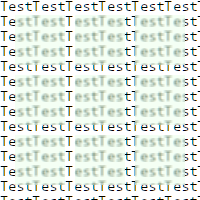
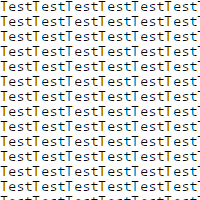
In progress. Issues remain with blurred quads for some reason

diff --git a/src/test.rs b/src/test.rs
@@ -96,7 +96,7 @@ fn simple_quad() {
         70,
         70,
         Scene::new()
-            .with_background(Srgba::new(1., 0., 0.5, 1.))
+            .with_clear(Srgba::new(1., 0., 0.5, 1.))
             .with_quad(Quad::new(
                 point2!(10., 10.),
                 size2!(50., 50.),
@@ -107,7 +107,7 @@ fn simple_quad() {
 
 #[test]
 fn simple_text() {
-    let mut scene = Scene::new().with_background(Srgba::new(1., 1., 1., 1.));
+    let mut scene = Scene::new().with_clear(Srgba::new(1., 1., 1., 1.));
     let mut shaper = Shaper::new();
     shaper.push_default(StyleProperty::FontStack(FontStack::Source("monospace")));
     shaper.push_default(StyleProperty::Brush(Srgba::new(0., 0., 0., 1.)));
@@ -172,11 +172,10 @@ fn simple_blur() {
         for y in 0..3 {
             scene.add_layer(
                 Layer::new()
-                    .with_blur(2.)
                     .with_clip(
                         Rect::new(point2!(15, 15), size2!(50, 50)).translate(vec2!(x * 60, y * 60)),
                     )
-                    .with_background(Srgba::new(0., 1., 0., 0.1)),
+                    .with_blurred_clear(Srgba::new(0., 1., 0., 0.1), 2.),
             );
         }
     }
@@ -254,7 +253,7 @@ fn swash_modern_ligatures() {
 
 #[test]
 fn text_layout_bounds() {
-    let mut scene = Scene::new().with_background(Srgba::new(1., 1., 1., 1.));
+    let mut scene = Scene::new().with_clear(Srgba::new(1., 1., 1., 1.));
     let mut shaper = Shaper::new();
 
     let layout = shaper.layout_with("Sphinx of black quartz judge my vow.", |builder| {
@@ -729,9 +728,16 @@ fn font_styles() {
     scene.add_text_layout(layout, point2!(padding, padding));
 
     let current_layer = scene.layer();
-    assert_eq!(current_layer.contents.glyph_runs.len(), lines.len());
+    assert_eq!(current_layer.contents.primitives.len(), lines.len());
     for (index, line) in lines.iter().enumerate() {
-        let glyph_run = &current_layer.contents.glyph_runs[index];
+        let glyph_runs = current_layer
+            .contents
+            .primitives
+            .last()
+            .unwrap()
+            .as_glyph_run_vec()
+            .unwrap();
+        let glyph_run = &glyph_runs[index];
         let font = scene.resources.fonts.get(&glyph_run.font_id).unwrap();
         let font_ref = font.as_swash_font_ref(glyph_run.font_index).unwrap();
         let fullname = font_ref
@@ -805,7 +811,7 @@ fn multiple_path_layers() {
             .with_quadratic_bezier_to(point2!(180., 180.), point2!(20., 180.)),
     );
 
-    scene.add_layer(Layer::new().with_background(Srgba::new(0., 0., 0., 0.)));
+    scene.add_layer(Layer::new().with_clear(Srgba::new(0., 0., 0., 0.)));
 
     scene.add_path(
         Path::new(point2!(20., 20.))
@@ -858,4 +864,19 @@ fn simple_mask() {
     scene.set_mask(mask_layer);
 
     assert_no_regressions(200, 200, scene);
+}
+
+#[test]
+fn clipped_clears() {
+    assert_no_regressions(
+        80,
+        80,
+        Scene::new()
+            .with_clear(Srgba::new(0., 1., 0., 1.))
+            .with_layer(
+                Layer::new()
+                    .with_clip(Rect::new(point2!(15, 15), size2!(50, 50)))
+                    .with_clear(Srgba::new(0., 0., 1., 1.)),
+            ),
+    );
 }

diff --git a/src/scene/layer.rs b/src/scene/layer.rs
@@ -64,13 +64,29 @@ impl Layer {
     pub fn add_clear(&mut self, color: Srgba) {
         self.add_quad(Quad::new(
             point2!(0.0, 0.0),
-            size2!(f32::INFINITY, f32::INFINITY),
+            size2!(f32::MAX / 2., f32::MAX / 2.),
             color,
         ));
     }
 
     pub fn with_clear(mut self, color: Srgba) -> Self {
         self.add_clear(color);
+        self
+    }
+
+    pub fn add_blurred_clear(&mut self, color: Srgba, blur: f32) {
+        self.add_quad(
+            Quad::new(
+                point2!(0.0, 0.0),
+                size2!(f32::MAX / 2., f32::MAX / 2.),
+                color,
+            )
+            .with_blur(blur),
+        );
+    }
+
+    pub fn with_blurred_clear(mut self, color: Srgba, blur: f32) -> Self {
+        self.add_blurred_clear(color, blur);
         self
     }
 
@@ -400,43 +416,5 @@ impl SharedPrimitiveBatch {
             Self::Paths(paths) => MutablePrimitiveBatch::Paths(paths.to_vec()),
             Self::Sprites(sprites) => MutablePrimitiveBatch::Sprites(sprites.to_vec()),
         }
-    }
-}
-
-#[cfg(test)]
-mod test {
-    use glamour::prelude::*;
-
-    #[test]
-    fn basic_layer_serialization() {
-        use super::*;
-
-        let layer = Layer::new()
-            .with_clip(Rect::new(point2!(0, 0), size2!(100, 100)))
-            .with_quad(Quad::new(
-                point2!(0.0, 0.0),
-                size2!(100.0, 100.0),
-                Srgba::new(0.5, 0.5, 1., 0.5),
-            ))
-            .with_quad(Quad::new(
-                point2!(100.0, 0.0),
-                size2!(100.0, 100.0),
-                Srgba::new(0.5, 0.5, 1., 0.5),
-            ))
-            .with_path(
-                Path::new(point2!(100., 10.))
-                    .with_fill(Srgba::new(0., 0., 0., 1.))
-                    .with_line_to(point2!(190., 190.))
-                    .with_line_to(point2!(10., 190.)),
-            )
-            .with_quad(Quad::new(
-                point2!(100.0, 0.0),
-                size2!(100.0, 100.0),
-                Srgba::new(0.5, 0.5, 1., 0.5),
-            ));
-
-        let serialized = serde_json::to_string(&layer).unwrap();
-
-        assert_eq!("", serialized);
     }
 }

diff --git a/gen_debug_scene.rs b/gen_debug_scene.rs
@@ -32,8 +32,7 @@ fn main() {
     scene.add_layer(
         Layer::new()
             .with_clip(Rect::new(point2!(0, 0), size2!(200, 200)))
-            // .with_blur(3.0)
-            // .with_background(Srgba::new(0.0, 0.0, 0.0, 0.0))
+            .with_blurred_clear(Srgba::new(0.0, 0.0, 0.0, 0.5), 3.)
             .with_path(
                 Path::new(point2!(20., 20.))
                     .with_fill(Srgba::new(0., 1., 0., 1.))

diff --git a/src/default_drawables/quad.rs b/src/default_drawables/quad.rs
@@ -52,6 +52,10 @@ impl Drawable for QuadState {
         batch.is_quads()
     }
 
+    fn needs_offscreen_copy(&self) -> bool {
+        true
+    }
+
     fn draw<'b, 'a: 'b>(
         &'a mut self,
         queue: &Queue,
